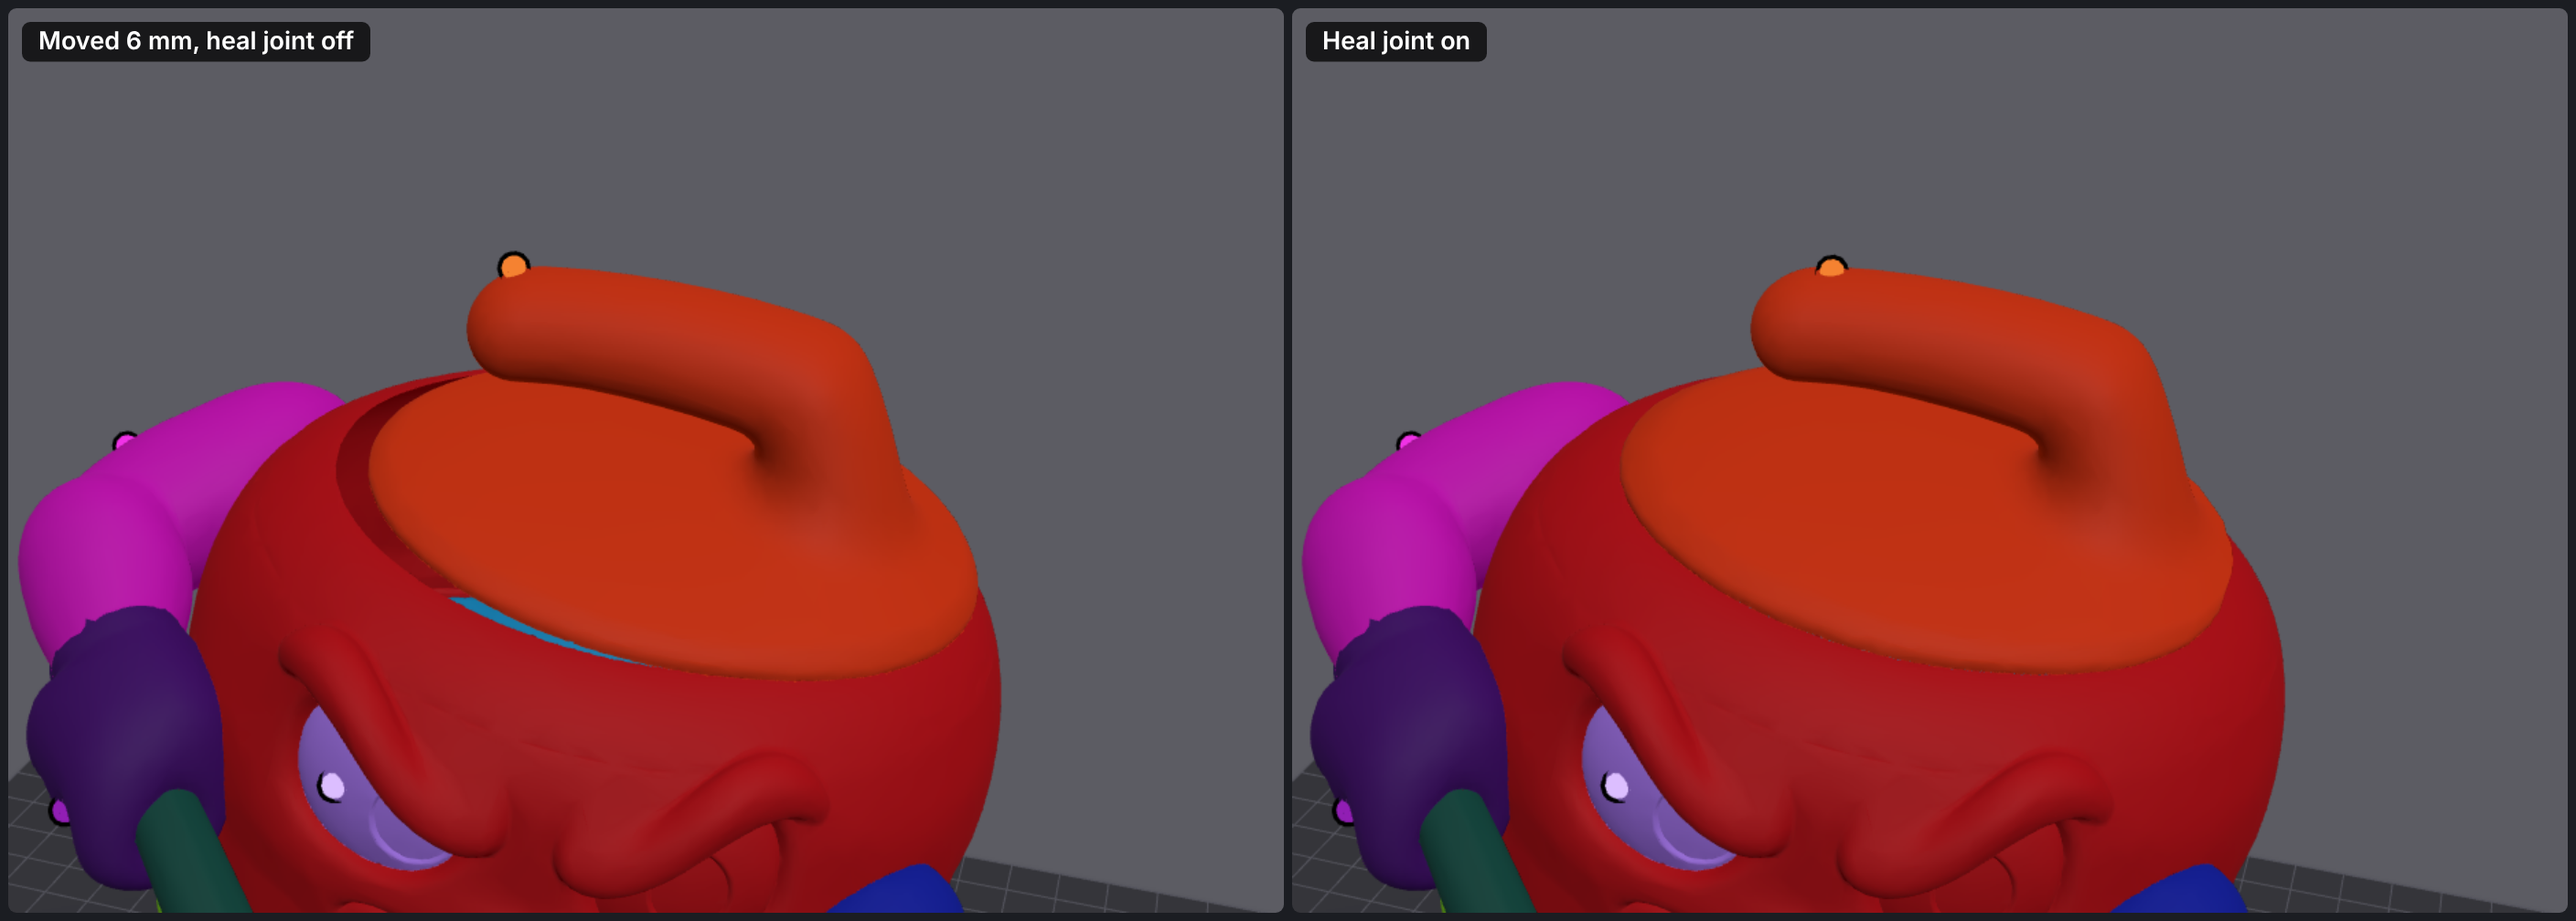
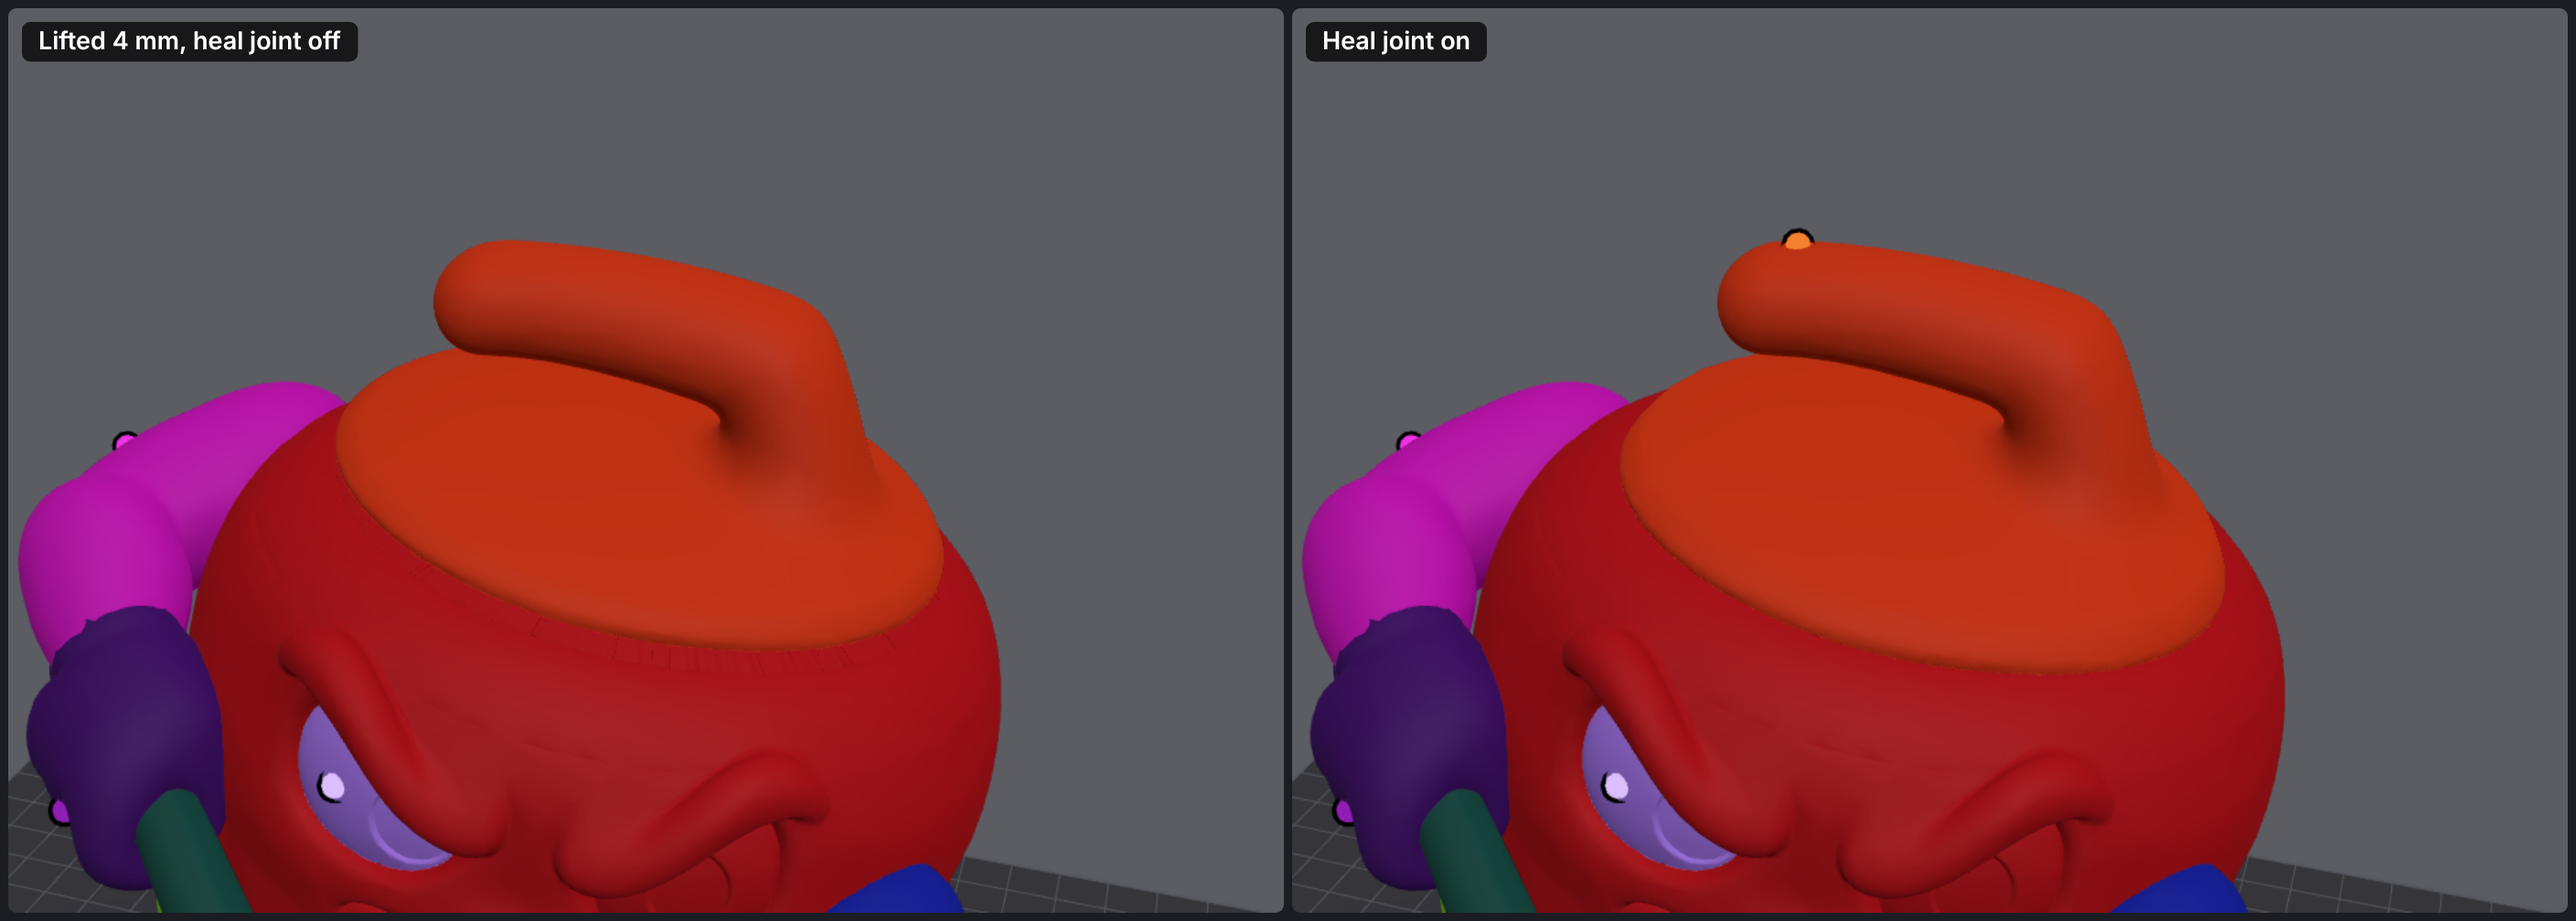
fix: Fill keeps its curved patch under a part that is tilted or lifted over the hole (#59)
* docs: animate rotate vs rotate on joint side by side and reframe the how-to visuals

Claude-Session: https://claude.ai/code/session_01FChPq4ndbUWFmBuELDr2Yt

* fix: Fill no longer covers a part that is still seated on its cut

Since #39, the bigger side's fill patch continued its curved surface over the hole even
when the moved part still sat on the cut (turned on its joint, or slid along it), so the
patch bulged up through the part's base and recolored it. While the neighbor's moved cut
stays in the cut's plane, the patch is now flat, like the smaller side's.

Re-records the rotate vs rotate-on-joint GIFs.

Claude-Session: https://claude.ai/code/session_01FChPq4ndbUWFmBuELDr2Yt

* fix: Fill keeps its curved patch under a part that is tilted or lifted over the hole

#58 only covered a part still seated on its cut. A part tilted (e.g. rotated on the world
axes) or lifted a little still had the body's curved patch poke up through it. While the
neighbor's moved cut is still over the hole, the patch is now kept under that cut's plane.

Re-records rotate-e.gif, rotate-on-joint.png and heal-joint.png (now lifted 4 mm, since
Fill closes a sideways gap).

Claude-Session: https://claude.ai/code/session_01FChPq4ndbUWFmBuELDr2Yt

---------

diff --git a/app/index.html b/app/index.html
@@ -1344,6 +1344,14 @@ function planTris(pl, ctx, out = []) {
       rings.push(W);
     });
     const c = new THREE.Vector3(...P.c); if (M) c.applyMatrix4(M);
+    // a curved patch stays under the neighbor's moved cut while the neighbor is still over the hole (lifted a little),
+    // so it never pokes up through the neighbor
+    const cap = fitL === own ? cutPlaneOver(lp, own, nb, ctx) : null;
+    if (cap) {
+      const under = (v) => { const d = v.clone().sub(cap.C).dot(cap.N); if (d > 0) v.addScaledVector(cap.N, -d); return v; };
+      for (let k = 1; k < rings.length; k++) { const W = rings[k]; for (let j = 0; j < W.length; j += 3) under(t3.fromArray(W, j)).toArray(W, j); }
+      under(c);
+    }
     ringTris(rings, c.toArray(), flip, out); return out;
   }
   // bridge: sweep the cut from the neighbor's rim (t = 0) to this part's moved cut (t = 1) along the relative turn
@@ -1379,6 +1387,26 @@ function seatedOn(lp, own, nb, ctx) {
   N.normalize(); r /= n;
   const spread = (pts) => pts.reduce((m, p) => Math.max(m, Math.abs(p.clone().sub(C).dot(N))), 0);
   return spread(Q) <= spread(P) + 0.03 * r;
+}
+// The plane of part nb's moved cut ({C, N}, N pointing away from part own) while that cut still sits over own's side
+// of loop lp: its center within a loop radius of the hole's. Else null (nb moved clear of the hole).
+function cutPlaneOver(lp, own, nb, ctx) {
+  if (!(nb > 0)) return null;
+  const n = lp.length, P = lp.map(([a]) => ctx.wpos(own, a)), Q = lp.map(([a]) => ctx.wpos(nb, a));
+  const Cp = new THREE.Vector3(), C = new THREE.Vector3(), N = new THREE.Vector3(), Np = new THREE.Vector3();
+  P.forEach((p) => Cp.add(p)); Cp.divideScalar(n); Q.forEach((q) => C.add(q)); C.divideScalar(n);
+  let r = 0;
+  for (let k = 0; k < n; k++) {
+    Np.add(P[k].clone().sub(Cp).cross(P[(k+1) % n].clone().sub(Cp))); N.add(Q[k].clone().sub(C).cross(Q[(k+1) % n].clone().sub(C)));
+    r += P[k].distanceTo(Cp);
+  }
+  r /= n;
+  if (N.lengthSq() < 1e-18 || Np.lengthSq() < 1e-18 || C.distanceTo(Cp) > r) return null;
+  N.normalize(); Np.normalize();
+  const b = partBox(nb), mid = new THREE.Vector3((b[0] + b[3]) / 2, (b[1] + b[4]) / 2, (b[2] + b[5]) / 2), Mn = ctx.mat(nb);
+  if (Mn) mid.applyMatrix4(Mn);
+  if (mid.sub(C).dot(N) < 0) N.negate(); // toward the neighbor's body
+  return { C, N };
 }
 // Closing triangles for every loop of part i (or of the unchanged rest, in mergedSoup), world space.
 function capTris(plans, ctx) { const out = []; for (const pl of plans) planTris(pl, ctx, out); return Float32Array.from(out); }

diff --git a/docs/how-it-works.md b/docs/how-it-works.md
@@ -130,7 +130,7 @@ A moved part's cut no longer lines up with its neighbor's edge. [Heal joint](fea
 2. After the transform, each loop vertex is matched to the rim point at the same angle, which gives a pull vector.
 3. Every vertex of the part takes the pull of its nearest loop vertex, faded by a cosine falloff over the blend distance (20% of the cut's radius by default, 1 to 15 mm). At the cut the pull is 100%. Past the blend distance it's 0, and the shape is exact.
 
-![Moved 6 mm: gap without heal, flush with heal](features/img/heal-joint.png)
+![Lifted 4 mm: a step without heal, flush with heal](features/img/heal-joint.png)
 
 The healed shape is computed on the fly from the transform, so changing the move or rotation re-heals it. Exports use the healed shape.
 

diff --git a/docs/features/transforms.md b/docs/features/transforms.md
@@ -62,7 +62,7 @@ Spins a part about its cut instead of the world axes. The axis is the cut's norm
 
 After you move or rotate a part, its cut edge may no longer line up with its neighbor, which leaves a gap or a step. Heal joint stretches or squeezes the part near its cut so the cut's edge lands back on the neighbor's edge. Added in [#24](https://github.com/d-carrigg/mesh-splitter/pull/24).
 
-![The handle moved 6 mm: a gap without heal joint, flush with heal joint](img/heal-joint.png)
+![The handle lifted 4 mm: a step without heal joint, flush with heal joint](img/heal-joint.png)
 
 ### How to use it
 
